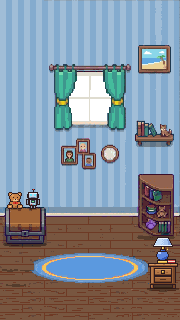
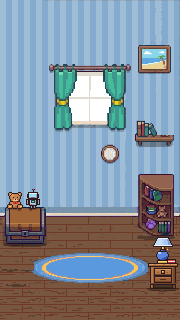
melhoria gatos quadros

Changed region(s): [[0.3333, 0.4062, 0.5556, 0.5312], [0.8889, 0.375, 0.9722, 0.4375]]

diff --git a/js/config.js b/js/config.js
@@ -18,7 +18,7 @@ const CONFIG = {
 
   // Versão do jogo. Aumente a cada envio ao GitHub (0.0.2 → 0.0.3 ...).
   // Ela aparece no rodapé: assim você confere se o celular pegou a versão nova.
-  VERSAO: '0.0.49',
+  VERSAO: '0.0.50',
 
   // Transição entre telas: tempo para escurecer (e para a próxima clarear), em segundos.
   TRANSICAO_SEGUNDOS: 0.25,
@@ -189,6 +189,11 @@ const CONFIG = {
     OLHOS_FECHADOS_TOQUE: 0.35,      // ao ser tocado, fecha os olhos (sorrindo) por este tempo (segundos)
     AVISO_Y: 40,                     // altura do aviso "Seu filho chegou!"
     INFO_X: 176, INFO_Y: 4,          // caixinha do nome e da idade (canto superior direito; x = borda direita)
+    // Parede (v0.0.50): quadros e gato da prateleira, desenhos do autor (o quarto não os tem mais)
+    QUADROS_X: 41, QUADROS_Y: 133,             // quadros 56×50 (com a sombra)
+    GATO_X: 147, GATO_Y: 114,                  // gato 42×29 (o chão dele é a prateleira, em y=135)
+    GATO_INTERVALO_SEGUNDOS: 30,               // de quanto em quanto tempo o gato balança o rabo
+    GATO_BALANCOS: 3, GATO_QUADRO_MS: 240,     // quantas balançadas, e quanto dura cada quadro
     INFO_ALTURA: 31,                 // altura da caixinha (3 linhas: nome, idade, dia e hora)
     HUMOR_ESPACO: 18, HUMOR_Y: 4,   // carinha de humor 12×12, FORA da caixinha, à ESQUERDA dela; y = topo da caixinha; 18 px de folga para o nome do humor (centralizado embaixo dela) não encostar na caixinha
     TROCA_HORA_SEGUNDOS: 1,          // de quanto em quanto tempo (real) o quarto confere se virou dia/noite

diff --git a/js/scenes/Quarto.js b/js/scenes/Quarto.js
@@ -41,6 +41,11 @@ class Quarto extends Phaser.Scene {
     // ---------- Quarto e berço ----------
     this.add.image(0, 0, this.bebe.sexo === 'F' ? 'quarto_menina' : 'quarto_menino').setOrigin(0, 0);
 
+    // ---------- Quadros e gato da parede (v0.0.50) ----------
+    this.add.image(Q.QUADROS_X, Q.QUADROS_Y, 'quadros_parede').setOrigin(0, 0);
+    this.gato = this.add.sprite(Q.GATO_X, Q.GATO_Y, 'gato', 0).setOrigin(0, 0);
+    this.time.addEvent({ delay: Q.GATO_INTERVALO_SEGUNDOS * 1000, loop: true, callback: () => this.balancarRaboGato() });
+
     // ---------- Brinquedos do chão (tocáveis) ----------
     this.criarBrinquedos();
 
@@ -220,6 +225,14 @@ class Quarto extends Phaser.Scene {
     if (this.ehNoite() !== this.noite) this.aplicarPeriodo(!this.noite);
     this.atualizarInfo();
     this.atualizarNecessidades();
+  }
+
+  // O gato balança o rabo algumas vezes (quadro 1 = rabo balançando, quadro 0 = rabo para cima)
+  balancarRaboGato() {
+    const Q = CONFIG.QUARTO;
+    for (let i = 0; i < Q.GATO_BALANCOS * 2; i++) {
+      this.time.delayedCall(i * Q.GATO_QUADRO_MS, () => { if (this.gato) this.gato.setFrame(i % 2 === 0 ? 1 : 0); });
+    }
   }
 
   // ---------- Nome e idade (canto superior direito) ----------

diff --git a/sw.js b/sw.js
@@ -12,7 +12,7 @@
 // (o Claude faz isso). Arquivos novos entram na lista ARQUIVOS.
 // =============================================================
 
-const VERSAO = '0.0.49';
+const VERSAO = '0.0.50';
 const CACHE = 'viva-' + VERSAO;
 const PHASER = 'https://cdn.jsdelivr.net/npm/phaser@3.90.0/dist/phaser.min.js';
 const ESPERA_REDE = 4000;   // ms: se a internet demorar mais que isso, usa a cópia
@@ -59,11 +59,13 @@ const ARQUIVOS = [
   './assets/sprites/casal.png',
   './assets/sprites/cegonha.png',
   './assets/sprites/cesta.png',
+  './assets/sprites/gato_prateleira.png',
   './assets/sprites/moita_direita.png',
   './assets/sprites/moita_esquerda.png',
   './assets/sprites/nuvem1.png',
   './assets/sprites/nuvem2.png',
   './assets/sprites/passaro.png',
+  './assets/sprites/quadros_parede.png',
   './assets/sprites/toalha.png',
   './assets/ui/botao_comecar.png',
   './assets/ui/botao_configuracoes.png',

diff --git a/js/scenes/Carregando.js b/js/scenes/Carregando.js
@@ -99,6 +99,8 @@ class Carregando extends Phaser.Scene {
     // Quarto (desenhos do autor): um para menina, outro para menino, e o berço
     this.load.image('quarto_menina', './assets/ui/quarto_menina.png');
     this.load.image('quarto_menino', './assets/ui/quarto_menino.png');
+    this.load.image('quadros_parede', './assets/sprites/quadros_parede.png');                      // v0.0.50: 56×50, do autor
+    this.load.spritesheet('gato', './assets/sprites/gato_prateleira.png', { frameWidth: 42, frameHeight: 29 });  // v0.0.50: 2 quadros 42×29 (rabo para cima / rabo balançando)
     this.load.image('berco_tras', './assets/sprites/berco_tras.png');
     this.load.image('berco_frente', './assets/sprites/berco_frente.png');
     for (const quarto of ['menina', 'menino']) {

diff --git a/PROGRESSO.md b/PROGRESSO.md
@@ -3,7 +3,7 @@
 > Se o chat ficar longo, cole este arquivo num chat novo para continuar de onde parou.
 
 ## Etapa atual
-**Etapa 8.2 — Sinais de cuidado** (v0.0.49: tela preta tratada, brinquedo +5, carinha à esquerda da caixinha alinhada ao topo; aguardando "aprovado")
+**Etapa 8.2 — Sinais de cuidado** (v0.0.50: gato animado e quadros novos na parede; aguardando "aprovado")
 
 ## O que está pronto
 - **Etapa 0 (aprovada):** pasta do projeto, Live Server, repositório `viva` no GitHub, GitHub Pages ligado em https://icaroparana3-afk.github.io/viva/
@@ -139,6 +139,10 @@
   - Entraram os desenhos do autor: ícones 16×16 (fome maçã, sede gota, energia raio, higiene bolhas, diversão bola), carinhas de humor (feliz, entediado, triste), mãozinha (agora 18×18, 2 quadros) e X vermelho. `ARTES_PRONTAS` ganhou `humor`, `x_nao` e `maozinha` separados; `sinais` (selos, balão, bebê chorando e esgotado) continua provisório por decisão do autor.
   - Botão de necessidades: no lugar do coração aparece o ícone da necessidade ativa mais baixa. Embaixo, 5 quadradinhos (v0.0.45): tudo 100% = carinha feliz e 5 verdes; acima de 50 = 4 verdes e 1 vazio; 1 a 50 = 3 amarelos e 2 vazios; 0 = 5 vermelhos. O "!" e o pulso abaixo de 25 continuam. Posições em `CONFIG.SINAIS` (BOTAO_ICONE, BOTAO_FELIZ, QUADRADOS_*). O coração (`coracao_necessidades`) saiu do jogo.
   - O X da recusa foi para o canto do balão (onde fica o selo), porque em cima da maçã vermelha não aparecia.
+- **v0.0.50 — gato e quadros do autor na parede:**
+  - Gato: `assets/sprites/gato_prateleira.png` (84×29, 2 quadros de 42×29: rabo para cima / rabo balançando). Fica em (147, 114) em cima da prateleira. A cada 30 s ele balança o rabo 3 vezes (240 ms por quadro). Números em `CONFIG.QUARTO` (GATO_INTERVALO_SEGUNDOS, GATO_BALANCOS, GATO_QUADRO_MS).
+  - Quadros: `assets/sprites/quadros_parede.png` (56×50 com a sombra), em (41, 133). O modelo do autor (1024×977, com parede) foi recortado só nos três quadros e reduzido para o tamanho do jogo (cores recalculadas; sombra suave de 2 px criada). O original está em `assets/originais/quadros_modelo.png`. Ficou maior que o antigo (37×35); para rostos mais nítidos, o autor pode desenhar direto no tamanho do jogo.
+  - Os quartos (`quarto_menina.png`, `quarto_menino.png`) foram limpos: sem o gato e sem os quadros antigos. Cópias das versões antigas em `assets/originais/quarto_menina_v0.0.49.png` e `quarto_menino_v0.0.49.png`.
 - **v0.0.49:** a carinha de humor fica à ESQUERDA da caixinha, alinhada ao topo dela (`HUMOR_ESPACO` 18 e `HUMOR_Y` 4 em `CONFIG.QUARTO`), e o nome do humor aparece centralizado embaixo dela.
 - **v0.0.47 — tela preta, brinquedos e caixinha:**
   - Tela preta depois de "Levar para o berço" (às vezes, no celular). Não apareceu nos testes, mas o código tinha dois pontos fracos que causam exatamente isso, e os dois foram tratados em `js/seguranca.js`:
